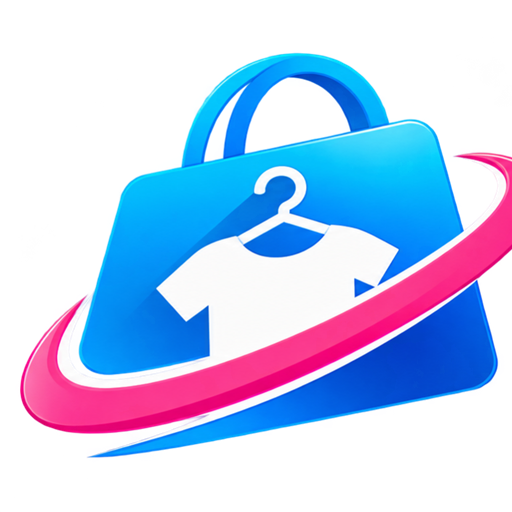
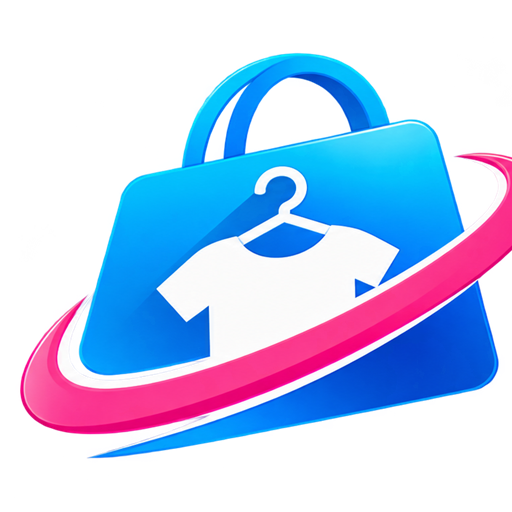
feat: rebrand storefront to Afiya Shope

diff --git a/user-frontend/src/app/layout.tsx b/user-frontend/src/app/layout.tsx
@@ -16,26 +16,26 @@ const geistMono = Geist_Mono({
 
 export const metadata: Metadata = {
   title: {
-    default: "V2005 — Modern E-Commerce Marketplace",
-    template: "%s | V2005",
+    default: "Afiya Shope — Modern E-Commerce Marketplace",
+    template: "%s | Afiya Shope",
   },
   description:
-    "V2005 is a modern, premium e-commerce marketplace for quality products with fast delivery and secure checkout.",
-  applicationName: "V2005",
+    "Afiya Shope is a modern, premium e-commerce marketplace for quality products with fast delivery and secure checkout.",
+  applicationName: "Afiya Shope",
   metadataBase: new URL(process.env.NEXT_PUBLIC_SITE_URL ?? "http://localhost:3000"),
   icons: {
     icon: "/favicon.ico",
     apple: "/images/afiya-icon.png",
   },
   openGraph: {
-    title: "V2005 — Modern E-Commerce Marketplace",
+    title: "Afiya Shope — Modern E-Commerce Marketplace",
     description:
-      "Shop quality products at V2005. Discover new arrivals, flash sales, and trusted brands.",
-    siteName: "V2005",
+      "Shop quality products at Afiya Shope. Discover new arrivals, flash sales, and trusted brands.",
+    siteName: "Afiya Shope",
     type: "website",
     images: [
       {
-        url: "/images/logo_v2005.png",
+        url: "/images/afiyashope_logo.png",
         alt: "Afiya Shope",
       },
     ],

diff --git a/user-frontend/src/components/home/promo-banner.tsx b/user-frontend/src/components/home/promo-banner.tsx
@@ -22,7 +22,7 @@ const slides: PromoSlide[] = [
     type: "video",
     src: "/videos/promo.mp4",
     poster: "/videos/promo-poster.png",
-    alt: "V2005 promo video",
+    alt: "Afiya Shope promo video",
   },
   {
     type: "image",
@@ -166,7 +166,7 @@ export function PromoBanner() {
 
         <div className="max-w-xl lg:pl-4">
           <h2 className="text-4xl font-semibold tracking-tight sm:text-5xl lg:text-6xl">
-            <span className="block">V2005 –</span>
+            <span className="block">Afiya Shope –</span>
             <span className="block">expensive</span>
             <span className="block">was</span>
             <span className="mt-1 block bg-gradient-to-r from-sky-300 to-teal-300 bg-clip-text text-transparent">
@@ -174,7 +174,7 @@ export function PromoBanner() {
             </span>
           </h2>
           <p className="mt-6 max-w-md text-sm leading-relaxed text-zinc-400 sm:text-base">
-            V2005 stands for clear selection, strong quality and a shopping
+            Afiya Shope stands for clear selection, strong quality and a shopping
             experience without detours.
           </p>
           <Link

diff --git a/admin-frontend/src/components/products/products-manager.tsx b/admin-frontend/src/components/products/products-manager.tsx
@@ -336,7 +336,7 @@ export function ProductsManager() {
             Products
           </h1>
           <p className="mt-2 text-slate-500">
-            Manage the V2005 catalog, inventory levels, pricing, and visibility.
+            Manage the Afiya Shope catalog, inventory levels, pricing, and visibility.
           </p>
         </div>
         {canManage ? (
@@ -637,7 +637,7 @@ export function ProductsManager() {
                     </p>
                     <p className="text-xs text-slate-500">
                       JPG, PNG, or WebP. Uploads to your Cloudinary cloud{" "}
-                      <span className="font-semibold">v2005</span>.
+                      <span className="font-semibold">Afiya Shope</span>.
                     </p>
                     <input
                       type="file"

diff --git a/user-frontend/src/components/home/hero-slider.tsx b/user-frontend/src/components/home/hero-slider.tsx
@@ -29,7 +29,7 @@ export function HeroSlider() {
         loop
         playsInline
         autoPlay
-        aria-label="V2005 TVC promotional video"
+        aria-label="Afiya Shope promotional video"
       />
       <div className="absolute inset-0 bg-gradient-to-r from-[#0F172A]/90 via-[#0F172A]/55 to-[#0F172A]/25" />
       <div className="absolute inset-0 bg-gradient-to-t from-[#0F172A]/55 via-transparent to-black/15" />
@@ -42,7 +42,7 @@ export function HeroSlider() {
           Ready to upgrade to the next level?
         </h1>
         <p className="mt-4 max-w-xl text-base text-zinc-200 sm:text-lg">
-          Discover premium tech and everyday essentials at V2005.
+          Discover premium tech and everyday essentials at Afiya Shope.
         </p>
         <div className="mt-8">
           <Link

diff --git a/admin-frontend/src/components/logo.tsx b/admin-frontend/src/components/logo.tsx
@@ -17,7 +17,7 @@ export function Logo({
   priority = true,
   showAdminLabel = true,
 }: LogoProps) {
-  const width = Math.round(height * (2042 / 768));
+  const width = Math.round(height * (2045 / 769));
 
   return (
     <Link
@@ -26,11 +26,12 @@ export function Logo({
       aria-label="Afiya Shope Admin home"
     >
       <Image
-        src="/images/logo_v2005.png"
+        src="/images/afiyashope_logo.png"
         alt="Afiya Shope"
         width={width}
         height={height}
         priority={priority}
+        unoptimized
         className="h-auto w-auto rounded-md object-contain"
         style={{ height, width: "auto" }}
       />

diff --git a/user-frontend/src/app/contact/page.tsx b/user-frontend/src/app/contact/page.tsx
@@ -5,7 +5,7 @@ import { ScrollReveal } from "@/components/ui/scroll-reveal";
 
 export const metadata: Metadata = {
   title: "Contact",
-  description: "Get in touch with V2005 customer support.",
+  description: "Get in touch with Afiya Shope customer support.",
 };
 
 export default function ContactPage() {
@@ -43,7 +43,7 @@ export default function ContactPage() {
           <InfoCard
             icon={<Mail className="h-5 w-5 text-primary" />}
             title="Email"
-            text="support@v2005.local"
+            text="support@afiyashope.local"
           />
         </ScrollReveal>
         <ScrollReveal delay={180}>

diff --git a/user-frontend/src/components/logo.tsx b/user-frontend/src/components/logo.tsx
@@ -14,7 +14,7 @@ export function Logo({
   height = 40,
   priority = true,
 }: LogoProps) {
-  const width = Math.round(height * (2042 / 768));
+  const width = Math.round(height * (2045 / 769));
 
   return (
     <Link
@@ -23,11 +23,12 @@ export function Logo({
       aria-label="Afiya Shope home"
     >
       <Image
-        src="/images/logo_v2005.png"
+        src="/images/afiyashope_logo.png"
         alt="Afiya Shope"
         width={width}
         height={height}
         priority={priority}
+        unoptimized
         className="rounded-md object-contain"
         style={{ width: "auto", height }}
       />

diff --git a/admin-frontend/src/app/layout.tsx b/admin-frontend/src/app/layout.tsx
@@ -14,11 +14,11 @@ const geistMono = Geist_Mono({
 
 export const metadata: Metadata = {
   title: {
-    default: "V2005 Admin",
-    template: "%s | V2005 Admin",
+    default: "Afiya Shope Admin",
+    template: "%s | Afiya Shope Admin",
   },
-  description: "V2005 administration dashboard for products, orders, and store settings.",
-  applicationName: "V2005 Admin",
+  description: "Afiya Shope administration dashboard for products, orders, and store settings.",
+  applicationName: "Afiya Shope Admin",
   icons: {
     icon: "/favicon.ico",
     apple: "/images/afiya-icon.png",

diff --git a/user-frontend/src/components/layout/site-splash.tsx b/user-frontend/src/components/layout/site-splash.tsx
@@ -77,11 +77,12 @@ export function SiteSplash() {
         <span className="site-splash__ring site-splash__ring--delayed" />
         <div className="site-splash__logo-wrap">
           <Image
-            src="/images/logo_v2005.png"
+            src="/images/afiyashope_logo.png"
             alt="Afiya Shope"
-            width={2042}
-            height={768}
+            width={2045}
+            height={769}
             priority
+            unoptimized
             className="site-splash__logo"
           />
         </div>

diff --git a/user-frontend/src/components/layout/site-footer.tsx b/user-frontend/src/components/layout/site-footer.tsx
@@ -125,7 +125,7 @@ export function SiteFooter() {
         <div className="mt-10 border-t border-zinc-800 pt-6">
           <div className="flex flex-col gap-5 lg:flex-row lg:items-center lg:justify-between">
             <p className="text-xs text-zinc-500">
-              © {new Date().getFullYear()}. V2005. Premium E-Commerce Marketplace
+              © {new Date().getFullYear()}. Afiya Shope. Premium E-Commerce Marketplace
             </p>
 
             <div className="flex flex-wrap items-center gap-4 sm:gap-5">

diff --git a/admin-frontend/src/components/layout/admin-shell.tsx b/admin-frontend/src/components/layout/admin-shell.tsx
@@ -108,7 +108,7 @@ export function AdminShell({ children }: { children: React.ReactNode }) {
         </nav>
 
         <div className="mx-4 mb-5 rounded-2xl bg-gradient-to-br from-[#5d87ff] to-[#4570ea] p-4 text-white shadow-lg shadow-blue-500/20">
-          <p className="text-sm font-semibold">V2005 Admin</p>
+          <p className="text-sm font-semibold">Afiya Shope Admin</p>
           <p className="mt-1 text-xs text-blue-100">
             Manage catalog, orders, and customers from one place.
           </p>

diff --git a/admin-frontend/src/components/auth/admin-login-page.tsx b/admin-frontend/src/components/auth/admin-login-page.tsx
@@ -142,9 +142,9 @@ export function AdminLoginPage() {
           </form>
 
           <div className="mt-6 space-y-1 text-center text-xs text-slate-400">
-            <p>admin@v2005.test / password</p>
-            <p>manager@v2005.test / password</p>
-            <p>staff@v2005.test / password</p>
+            <p>admin@afiyashope.test / password</p>
+            <p>manager@afiyashope.test / password</p>
+            <p>staff@afiyashope.test / password</p>
           </div>
         </section>
       </main>
